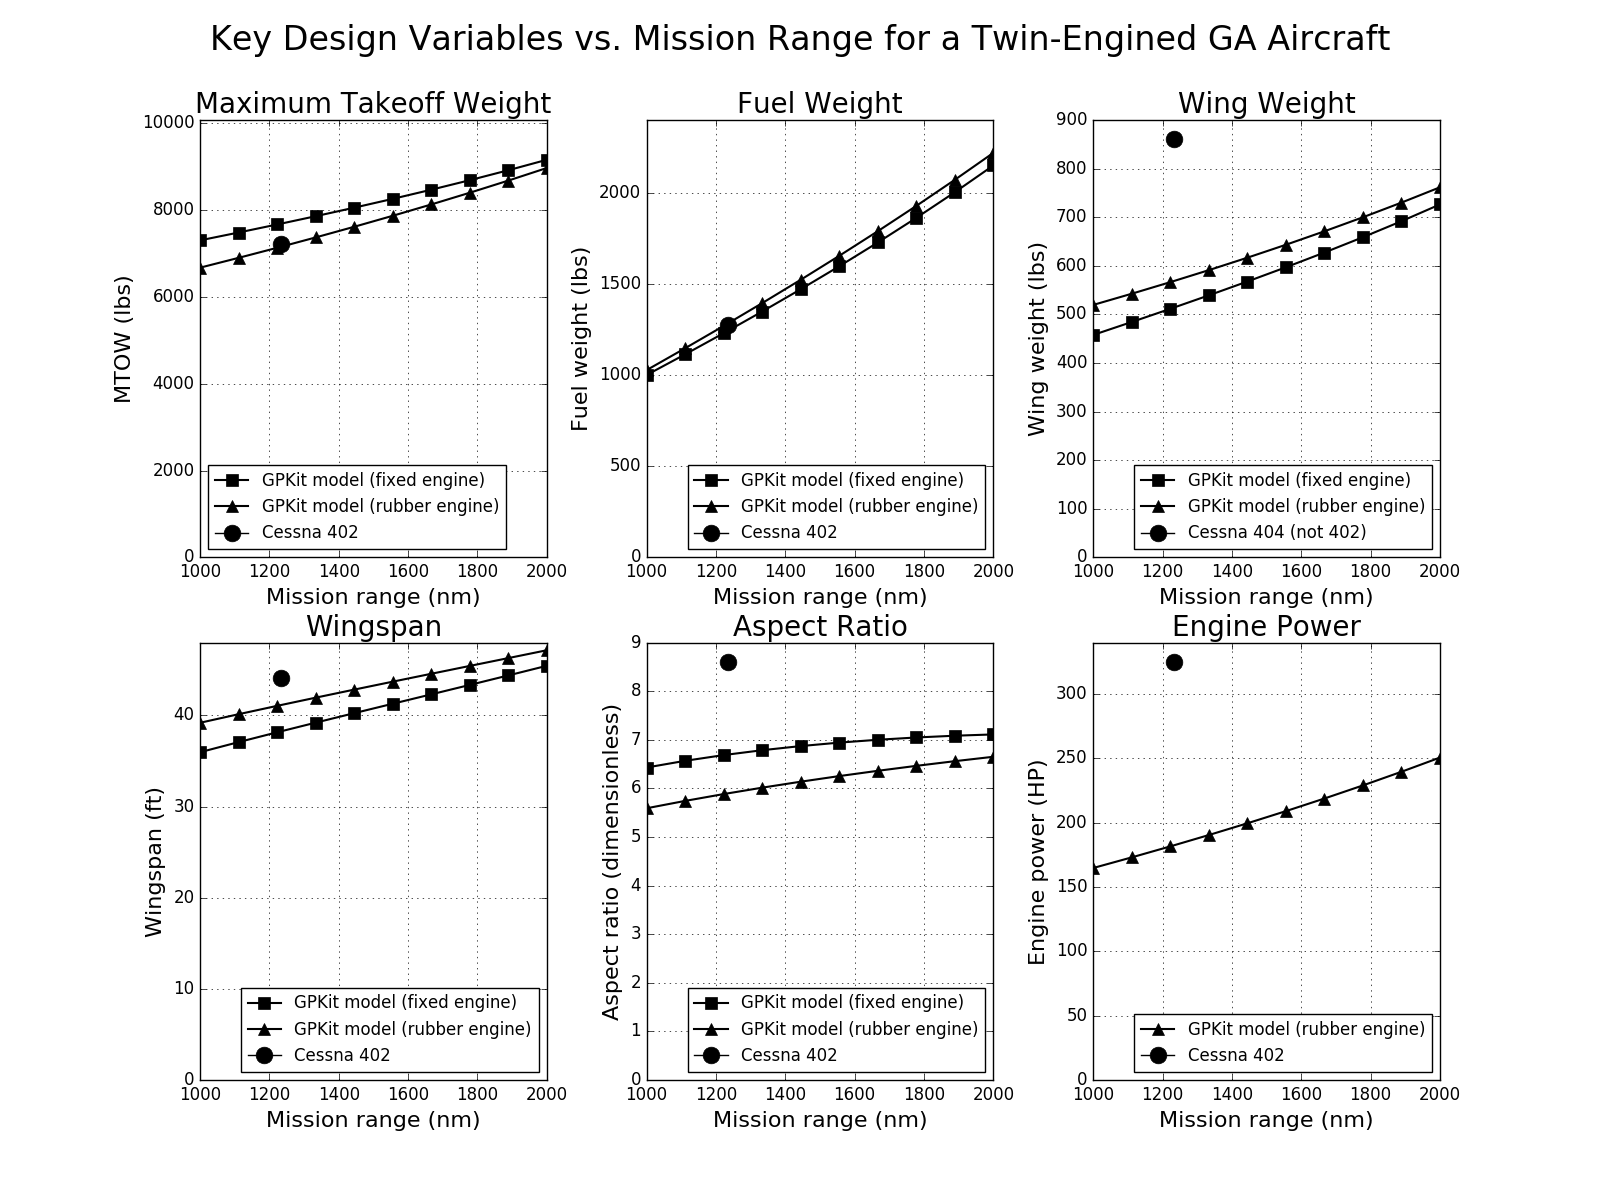
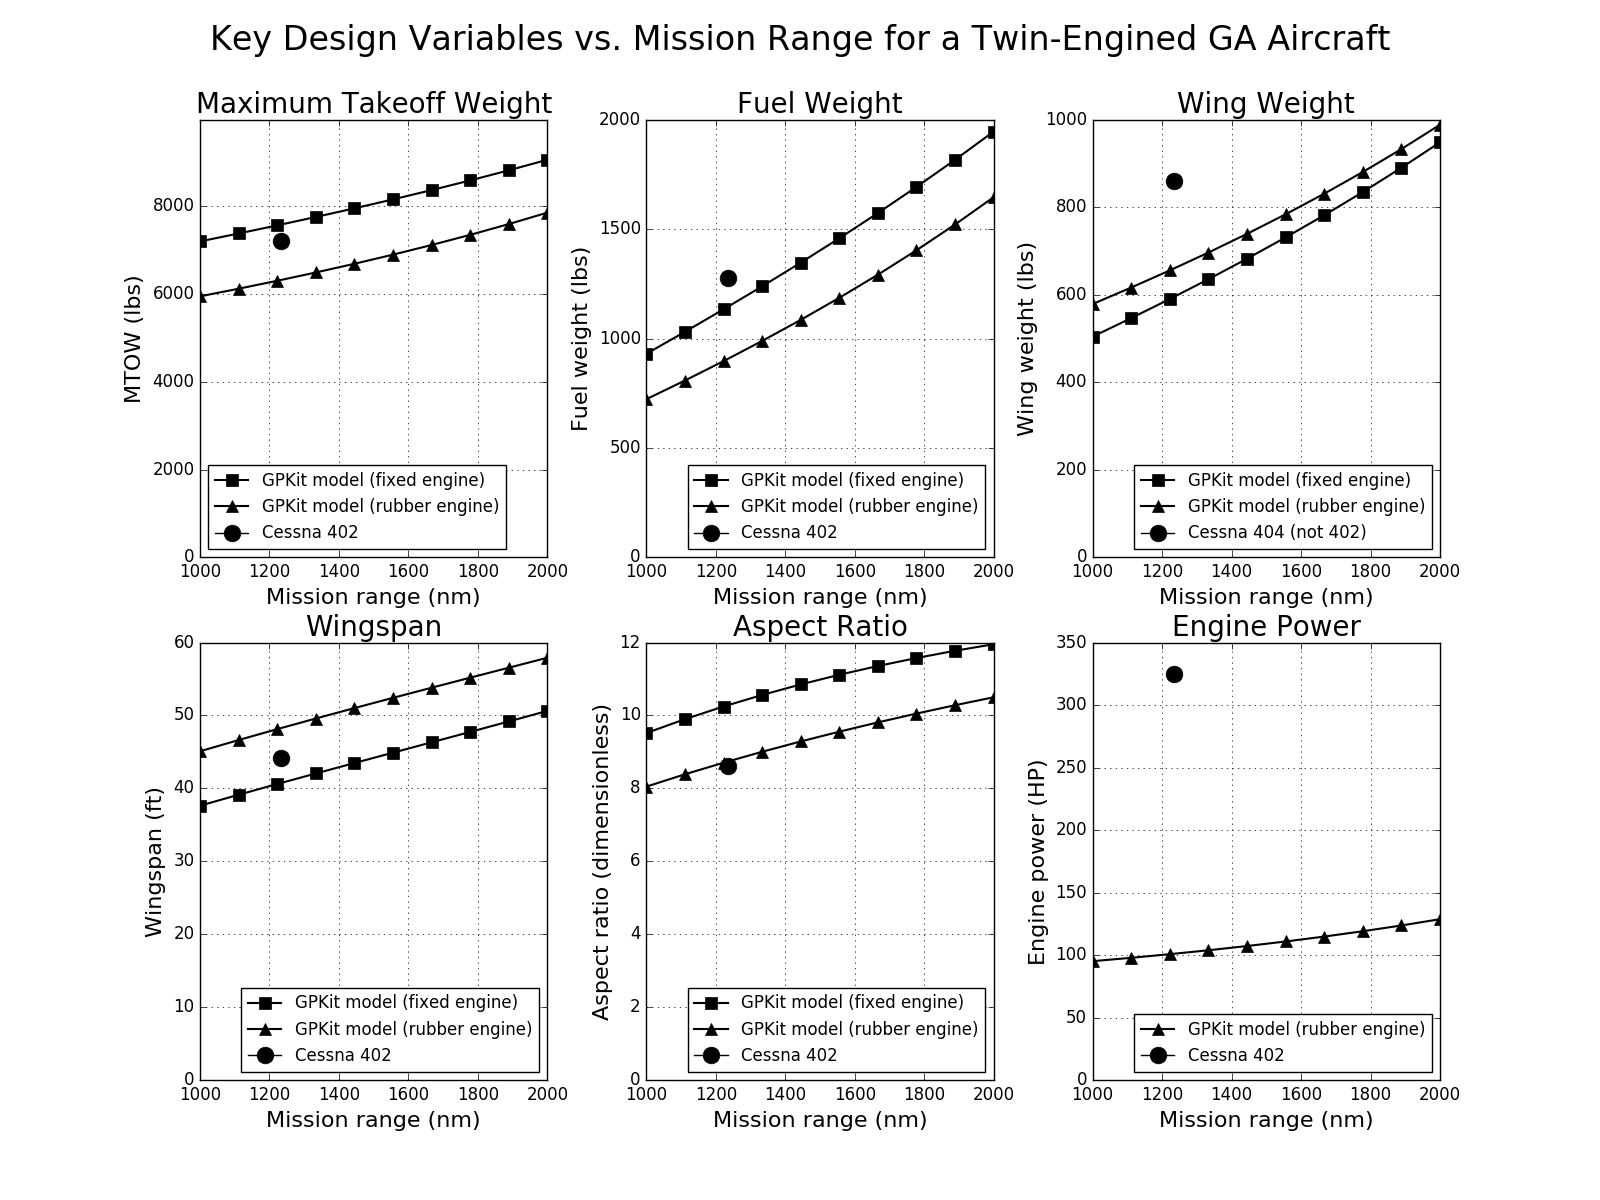
Add easier method to input range and takeoff distance constraints; update plot

diff --git a/GA_aircraft_models.py b/GA_aircraft_models.py
@@ -199,7 +199,7 @@ class AllOtherWeights(Model):
 
 
 class Mission(Model):
-    def setup(self,aircraft):
+    def setup(self,aircraft,missionLength_nm=1200):
         
         self.aircraft = aircraft
         W_TO = aircraft["W_TO"]
@@ -207,7 +207,7 @@ class Mission(Model):
 
         constraints = []
         
-        mission_range = Variable("Range",np.linspace(1000,2000,10),"nautical_mile","Mission range")#sweep
+        mission_range = Variable("Range",missionLength_nm,"nautical_mile","Mission range")#sweep
         fuel_allowance = 0.03+0.015+0.005+0.06 #allowance for takeoff, climb, landing, reserves, and trapped fuel
 
         fs = FlightSegment(aircraft,segmentRange = mission_range)
@@ -328,7 +328,7 @@ class FlightState(Model):
 
 class TakeoffConstraint(Model):
 
-    def setup(self,aircraft,state=FlightState(stateType="takeoff")):
+    def setup(self,aircraft,s_TO_ft=1763,state=FlightState(stateType="takeoff")):
         self.aircraft = aircraft
         self.state = state
         self.aerodynamics = Aerodynamics(aircraft,stateType="takeoff")
@@ -339,7 +339,7 @@ class TakeoffConstraint(Model):
 
         y = Variable("y","-","Takeoff-distance parameter 1")
         zeta = Variable("zeta","-","Takeoff-distance parameter 2")
-        s_TO = Variable("s_TO",1763,"ft","Takeoff distance")
+        s_TO = Variable("s_TO",s_TO_ft,"ft","Takeoff distance")
 
         V_TO = 1.1*((2*aircraft.W_TO) / (state["rho"]*aircraft.wing["S"]*CLmax_TO))**(1./2)#1.1*V_stall
         D_TO = 0.5 * state["rho"] * V_TO**2 * aircraft.wing["S"] * CD

diff --git a/GA_model.py b/GA_model.py
@@ -11,14 +11,19 @@ from GA_aircraft_models import *
 # Set up units
 ureg = pint.UnitRegistry()
 
+takeoff_distance_ft = 1763
+range_nm = np.linspace(1000,2000,10)
+
 GA_aircraft_fixedEngine = Aircraft(engineType="fixed")
 GA_aircraft_rubberEngine = Aircraft(engineType="rubber")
 
-GA_mission_fixedEngine = Mission(GA_aircraft_fixedEngine)
-GA_mission_rubberEngine = Mission(GA_aircraft_rubberEngine)
+GA_mission_fixedEngine = Mission(GA_aircraft_fixedEngine,missionLength_nm=range_nm)
+GA_mission_rubberEngine = Mission(GA_aircraft_rubberEngine,missionLength_nm=range_nm)
 
-GA_takeoffConstraint_fixedEngine = TakeoffConstraint(GA_aircraft_fixedEngine)
-GA_takeoffConstraint_rubberEngine = TakeoffConstraint(GA_aircraft_rubberEngine)
+GA_takeoffConstraint_fixedEngine = TakeoffConstraint(GA_aircraft_fixedEngine,
+    s_TO_ft=takeoff_distance_ft)
+GA_takeoffConstraint_rubberEngine = TakeoffConstraint(GA_aircraft_rubberEngine,
+    s_TO_ft=takeoff_distance_ft)
 
 GA_model_fixedEngine = Model(GA_aircraft_fixedEngine.W_TO,
     [GA_aircraft_fixedEngine, GA_mission_fixedEngine,GA_takeoffConstraint_fixedEngine])
